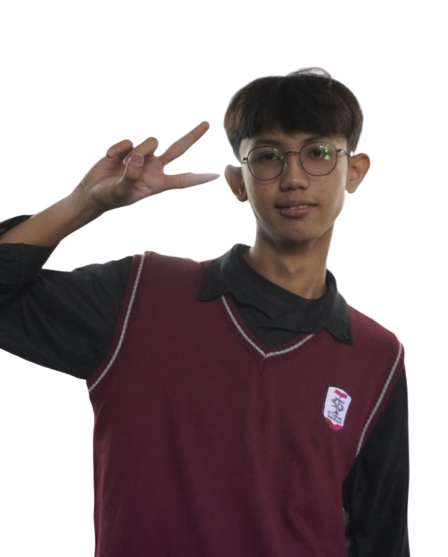
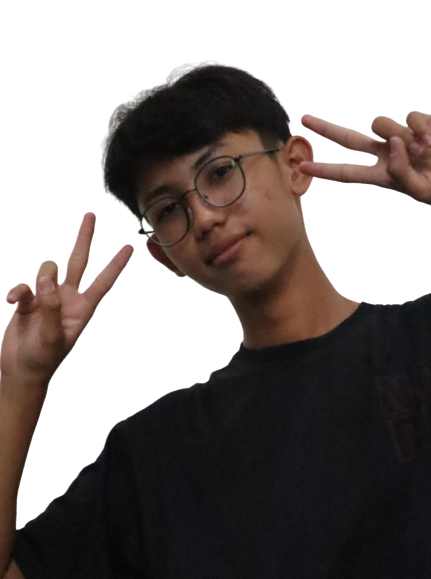
change photo and message form in dev

diff --git a/index.html b/index.html
@@ -151,8 +151,7 @@
                 <div class="col-md-4">
                     <a href="https://anandabintang.github.io/anim-factory" target="_blank" class="portfolio-card">
                         <img class="portfolio-card-img" src="assets/imgs/anim-factory-folio.png"
-                            class="img-responsive rounded"
-                            alt="Download free bootstrap 4 landing page, free boootstrap 4 templates, Download free bootstrap 4.1 landing page, free boootstrap 4.1.1 templates, meyawo Landing page">
+                            class="img-responsive rounded" alt="Animation Factory">
                         <span class="portfolio-card-overlay">
                             <span class="portfolio-card-caption">
                                 <h4>Animation Factory</h5>
@@ -197,7 +196,7 @@
             <p class="section-subtitle">How can you communicate?</p>
             <h6 class="section-title mb-5">Contact Me</h6>
             <!-- contact form -->
-            <form action="" class="contact-form col-md-10 col-lg-8 m-auto">
+            <form action="" id="message-form" class="contact-form col-md-10 col-lg-8 m-auto">
                 <div class="form-row">
                     <div class="form-group col-sm-6">
                         <input type="text" size="50" class="form-control" placeholder="Your Name" required>
@@ -221,13 +220,15 @@
     <div class="container">
         <footer class="footer">
             <p class="mb-0">Copyright
-                <script>document.write(new Date().getFullYear())</script> &copy; <a href="http://www.devcrud.com">Ananda
+                <script>document.write(new Date().getFullYear())</script> &copy; <a
+                    href="https://bintang.madeit.cool">Ananda
                     Bintang Saputra</a>
             </p>
             <div class="social-links text-right m-auto ml-sm-auto">
-                <a href="javascript:void(0)" class="link"><i class="ti-facebook"></i></a>
-                <a href="javascript:void(0)" class="link"><i class="ti-instagram"></i></a>
-                <a href="javascript:void(0)" class="link"><i class="ti-linkedin"></i></a>
+                <a href="https://www.facebook.com/AnandaBintangSaputra/" class="link"><i class="ti-facebook"></i></a>
+                <a href="https://www.instagram.com/bn.tang/" class="link"><i class="ti-instagram"></i></a>
+                <a href="https://www.linkedin.com/in/ananda-bintang-7a7400229/" class="link"><i
+                        class="ti-linkedin"></i></a>
             </div>
         </footer>
     </div> <!-- end of page footer -->

diff --git a/assets/js/meyawo.js b/assets/js/meyawo.js
@@ -13,26 +13,33 @@
 */
 
 // smooth scroll
-$(document).ready(function(){
-    $(".navbar .nav-link").on('click', function(event) {
+$(document).ready(function () {
+  $(".navbar .nav-link").on("click", function (event) {
+    if (this.hash !== "") {
+      event.preventDefault();
 
-        if (this.hash !== "") {
+      var hash = this.hash;
 
-            event.preventDefault();
-
-            var hash = this.hash;
-
-            $('html, body').animate({
-                scrollTop: $(hash).offset().top
-            }, 700, function(){
-                window.location.hash = hash;
-            });
-        } 
-    });
+      $("html, body").animate(
+        {
+          scrollTop: $(hash).offset().top,
+        },
+        700,
+        function () {
+          window.location.hash = hash;
+        }
+      );
+    }
+  });
 });
 
 // navbar toggle
-$('#nav-toggle').click(function(){
-    $(this).toggleClass('is-active')
-    $('ul.nav').toggleClass('show');
+$("#nav-toggle").click(function () {
+  $(this).toggleClass("is-active");
+  $("ul.nav").toggleClass("show");
+});
+
+// Message form
+$("#message-form").on("submit", function (e) {
+  alert("On Development!");
 });
